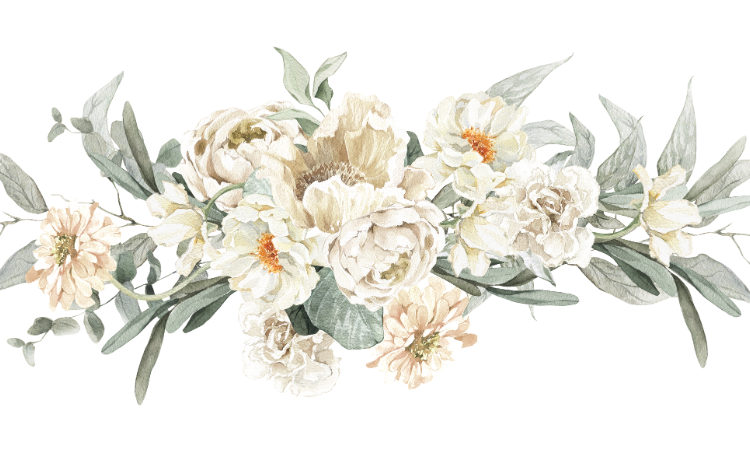
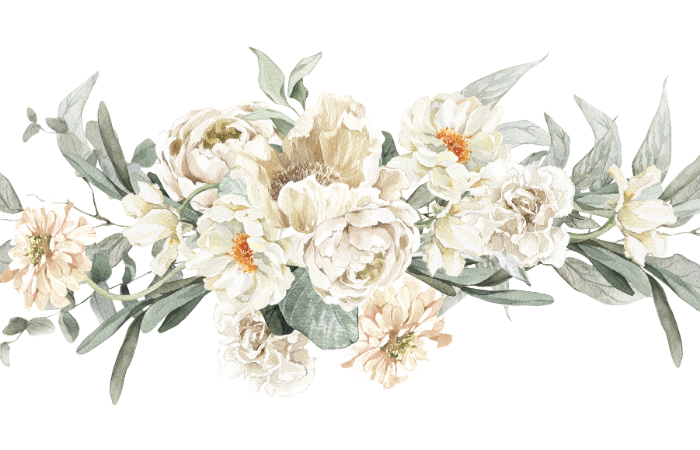
Fade-in transition

Changed region(s): [[0.0, 0.0933, 0.48, 0.9022], [0.51, 0.1244, 1.0, 0.8711]]

diff --git a/src/App.jsx b/src/App.jsx
@@ -1,4 +1,4 @@
-import { useState, useEffect } from 'react'
+import { useState, useEffect, useRef } from 'react'
 import { BrowserRouter as Router, Route, Routes } from 'react-router-dom';
 import Landing from './components/Landing/landing.jsx';
 import Countdown from './components/Countdown/countdown.jsx';
@@ -11,11 +11,17 @@ import Mail from './components/Mail/mail.jsx';
 import './App.css'
 
 function FadeInSection(props) {
-  const [isVisible, setVisible] = React.useState(false);
-  const domRef = React.useRef();
-  React.useEffect(() => {
+  const [isVisible, setVisible] = useState(false);
+  const [wasVisible, setWasVisible] = useState(false);
+  const domRef = useRef();
+  useEffect(() => {
+    if (isVisible && !wasVisible) 
+      setWasVisible(true);
     const observer = new IntersectionObserver(entries => {
-      entries.forEach(entry => setVisible(entry.isIntersecting));
+      entries.forEach(entry => {
+        if (!wasVisible && entry.isIntersecting)
+          setVisible(entry.isIntersecting);
+      });
     });
     observer.observe(domRef.current);
   }, []);
@@ -33,11 +39,11 @@ function Home() {
   return (
     <div className="home" id="home">
       <Landing/>
-      <Countdown/>
-      <Schedule/>
-      <Invitation/>
-      <Retratos/>
-      <MoreInfo/>
+      <FadeInSection><Countdown/></FadeInSection>
+      <FadeInSection><Schedule/></FadeInSection>
+      <FadeInSection><Invitation/></FadeInSection>
+      <FadeInSection><Retratos/></FadeInSection>
+      <FadeInSection><MoreInfo/></FadeInSection>
     </div>
   );
 }

diff --git a/src/components/Invitation/invitation.css b/src/components/Invitation/invitation.css
@@ -5,7 +5,7 @@
   justify-content: center;
   height: max-content;
   width: 100%;
-  /* overflow: hidden; */
+  overflow: hidden;
   background-image: url('../../images/invitation.png');
   background-repeat: no-repeat;
   background-size: cover;
@@ -15,7 +15,7 @@
   transform: rotate(180deg);
   text-align: center;
   color: black;
-  z-index: 10;
+  z-index: -1;
 }
 
 #invitation h2 {
@@ -26,10 +26,10 @@
 .information {
   transform: rotate(180deg);
   display: grid;
-  width: 80%;
+  width: 100%;
   height: 400px;
-  margin-bottom: 15%;
-  margin-top: 0%;
+  margin-bottom: 30%;
+  margin-top: 50%;
   justify-self: center;
 }
 .ceremonia {
@@ -177,12 +177,4 @@ input::-webkit-inner-spin-button {
   justify-self: center;
   margin: 5px;
   width: 45%;
-}
-
-.transition {
-  position: relative;
-  justify-self: center;
-  width: 100%;
-  top: -95px;
-  transform: rotate(180deg);
 }

diff --git a/src/components/Retratos/retratos.jsx b/src/components/Retratos/retratos.jsx
@@ -1,4 +1,5 @@
 import CustomModal from '../CustomModal/customModal.jsx';
+import transition from '../../images/transition.png';
 import './retratos.css';
 
 function getThumbnail(link) {
@@ -14,6 +15,7 @@ function Retratos() {
 
   return (
     <div id="retratos" className="retratos-bg">
+      <div className="transition-container"><img className="transition" src={transition} alt="" /></div>
       {/* <img id="retratos-bkg" src={retratos} alt="IsaYPuy"/> */}
       <div className="title">
         <div className="nuestros">Nuestros</div>

diff --git a/src/components/Invitation/invitation.jsx b/src/components/Invitation/invitation.jsx
@@ -1,7 +1,6 @@
 import React, { useState, useEffect } from 'react';
 import CustomModal from '../CustomModal/customModal.jsx';
 import Search, { ceremoniaBtn } from './search.jsx';
-import transition from '../../images/transition.png';
 import './invitation.css';
 
 function Invitation() {
@@ -24,7 +23,6 @@ function Invitation() {
 
   return (
     <div id="invitation">
-      <img className="transition" src={transition} alt="" />
       <div className="information">
         <div id="lugar" className="lugar">
           <h2>Lugar</h2>

diff --git a/src/components/Retratos/retratos.css b/src/components/Retratos/retratos.css
@@ -5,11 +5,11 @@
   align-items: center;
   justify-content: center;
   height: max-content;
-  overflow: hidden;
+  /* overflow: hidden; */
   color: white;
   text-align: center;
-  padding-top: 50px;
   padding-bottom: 30px;
+  z-index: 10;
 }
 
 .retratos-bg {
@@ -108,4 +108,15 @@
 }
 .g-col-s-2 {
   grid-column: span 2;
+}
+
+.transition-container {
+  height: 70px;
+}
+.transition {
+  position: absolute;
+  left: 0;
+  width: 100%;
+  top: -125px;
+  z-index: 10;
 }

diff --git a/src/index.css b/src/index.css
@@ -143,8 +143,8 @@ button:focus-visible {
   opacity: 0;
   transform: translateY(20vh);
   visibility: hidden;
-  transition: opacity 1200ms ease-out, transform 600ms ease-out,
-    visibility 1200ms ease-out;
+  transition: opacity 1s ease-out, transform 1s ease-out,
+    visibility 1s ease-out;
   will-change: opacity, transform, visibility;
 }
 .fade-in-section.is-visible {
